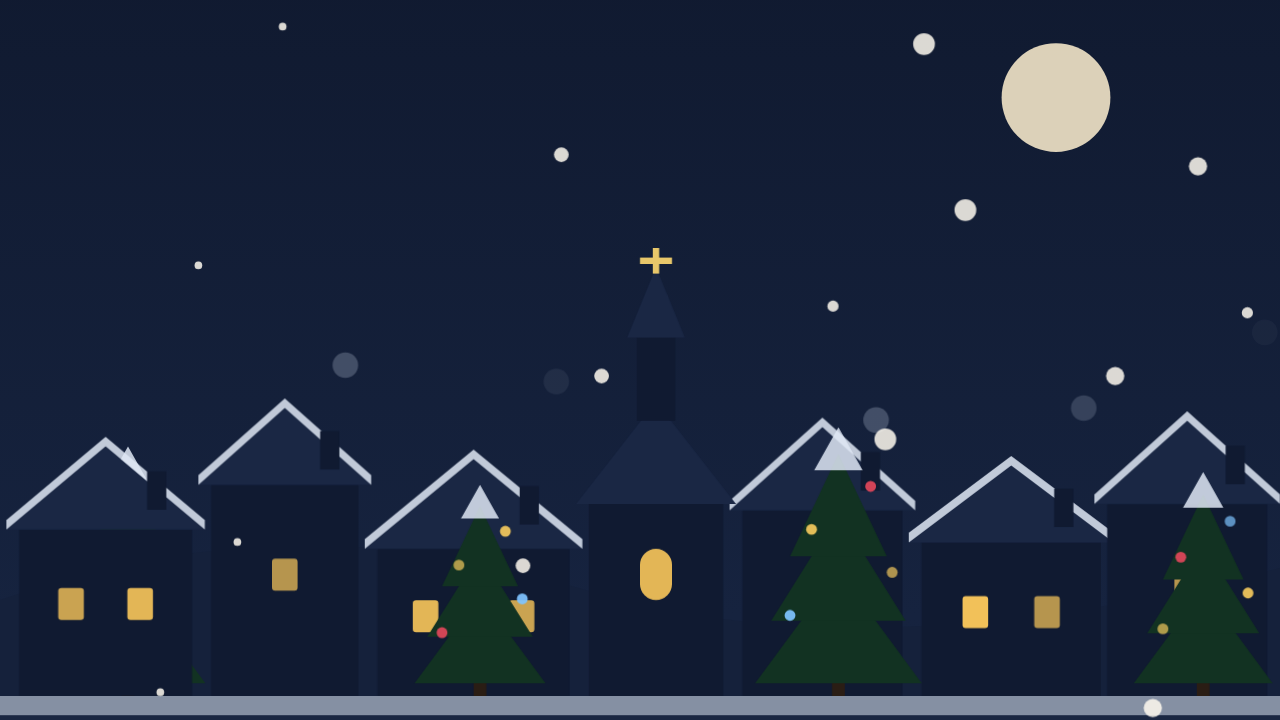
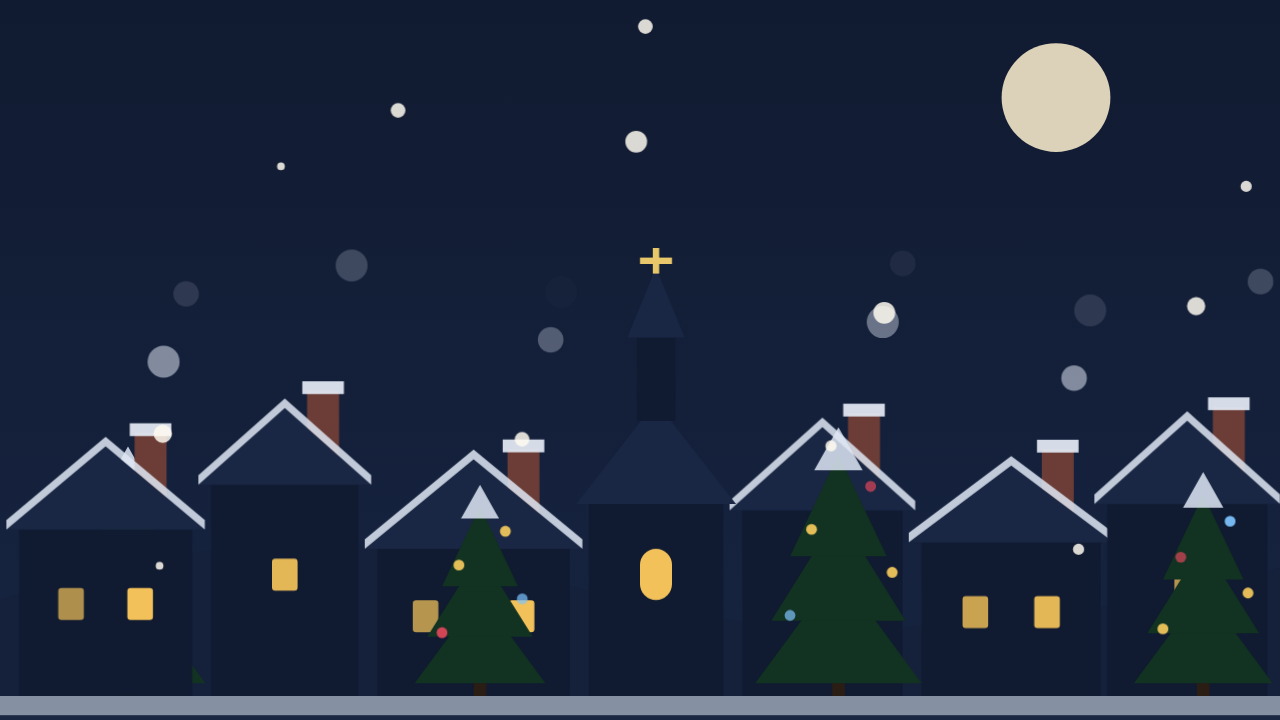
christmas-town-theme 0.1.1: brick chimneys with snow caps and clearer smoke
Claude-Session: https://claude.ai/code/session_019US2gsjfkmf3Eo2ufavub8

diff --git a/plugins/christmas-town-theme/hooks/register.tsx b/plugins/christmas-town-theme/hooks/register.tsx
@@ -49,18 +49,25 @@ const windowsOf = (x: number, w: number, top: number, h: number, offsets: number
     })
     .join('')
 
+const G_TOP = (item: House): number => GROUND - item.h
+
 const house = (item: House, index: number): string => {
-  const top = GROUND - item.h
+  const top = G_TOP(item)
   const mid = item.x + item.w / 2
-  const smokeX = item.x + item.w * 0.74
+  // The chimney stands on the right slope of the roof: its base is hidden behind the roof, its top shows above it.
+  const cx = item.x + item.w * 0.76
+  const slope = top - item.roof * (1 - Math.abs(cx - mid) / (item.w / 2 + 4))
+  const chimneyTop = slope - 16
 
   return [
+    `<rect x="${cx - 5}" y="${chimneyTop}" width="10" height="26" fill="#6b3d36"/>`,
+    `<rect x="${cx - 6.5}" y="${chimneyTop - 3}" width="13" height="4" fill="#e6edf7" opacity=".92"/>`,
     `<rect x="${item.x}" y="${top}" width="${item.w}" height="${item.h}" fill="#101a31"/>`,
     `<path d="M${item.x - 4} ${top} L${mid} ${top - item.roof} L${item.x + item.w + 4} ${top} Z" fill="#1a2744"/>`,
     // The snow on the roof.
     `<path d="M${item.x - 4} ${top} L${mid} ${top - item.roof} L${item.x + item.w + 4} ${top} L${item.x + item.w + 4} ${top - 3} L${mid} ${top - item.roof - 3} L${item.x - 4} ${top - 3} Z" fill="#dfe8f4" opacity=".85"/>`,
-    `<rect x="${smokeX}" y="${top - item.roof * 0.7}" width="6" height="12" fill="#101a31"/>`,
-    `<circle class="sm" cx="${smokeX + 3}" cy="${top - item.roof * 0.7 - 4}" r="4" style="animation-delay:${-((index * 3) % 8)}s"/>`,
+    `<circle class="sm" cx="${cx}" cy="${chimneyTop - 8}" r="5" style="animation-delay:${-((index * 3) % 8)}s"/>`,
+    `<circle class="sm" cx="${cx + 1}" cy="${chimneyTop - 8}" r="4" style="animation-delay:${-((index * 3 + 4) % 8)}s"/>`,
     windowsOf(item.x, item.w, top, item.h, item.windows),
   ].join('')
 }
@@ -126,10 +133,10 @@ const SCENE = [
   '.w{fill:#f4c35a;animation:glow 9s ease-in-out infinite}',
   '@keyframes glow{0%,100%{opacity:.7}50%{opacity:1}}',
   '.l{animation:glow 6s ease-in-out infinite}',
-  '.sm{fill:#c9d4e6;opacity:0;animation:rise 9s ease-out infinite}',
-  '@keyframes rise{0%{opacity:0;transform:translate(0,0)}20%{opacity:.35}100%{opacity:0;transform:translate(10px,-34px)}}',
+  '.sm{fill:#d6deec;opacity:0;animation:rise 9s ease-out infinite}',
+  '@keyframes rise{0%{opacity:0;transform:translate(0,0)}20%{opacity:.6}100%{opacity:0;transform:translate(12px,-42px)}}',
   // Asked to reduce motion, the snow rests at set heights and the windows, lights and smoke stay still.
-  '@media (prefers-reduced-motion:reduce){.f{animation:none;transform:translate(0,var(--y))}.w,.l{animation:none}.sm{animation:none;opacity:.2}}',
+  '@media (prefers-reduced-motion:reduce){.f{animation:none;transform:translate(0,var(--y))}.w,.l{animation:none}.sm{animation:none;opacity:.3}}',
   '</style>',
   '<rect width="400" height="800" fill="url(#sky)"/>',
   '<circle cx="330" cy="318" r="17" fill="#f3e6c8" opacity=".9"/>',

diff --git a/README.es.md b/README.es.md
@@ -44,7 +44,7 @@ Mods bonitas para Claude Code: cambian cómo se ve y qué muestra. Un aspecto na
 | Mod | Qué hace |
 |---|---|
 | `christmas-theme` | Verde pino profundo con texto crema cálido, acentos granate y dorado, una nevada lenta, y Santa con su trineo lleno de regalos envueltos y un reno cruzando el cielo una vez cada 70 segundos. Oscuro. |
-| `christmas-town-theme` | Otro aspecto navideño, con un pueblo: una noche azul medianoche con casas con tejados nevados y sus ventanas encendidas, una iglesia con campanario, pinos con luces de colores, una luna, humo de chimeneas que se eleva despacio y una nevada lenta. Oscuro. Instálalo en lugar de `christmas-theme`, no a la vez. |
+| `christmas-town-theme` | Otro aspecto navideño, con un pueblo: una noche azul medianoche con casas con tejados nevados, chimeneas de ladrillo y sus ventanas encendidas, una iglesia con campanario, pinos con luces de colores, una luna, humo de chimeneas que se eleva despacio y una nevada lenta. Oscuro. Instálalo en lugar de `christmas-theme`, no a la vez. |
 | `christmas-market-theme` | Un mercadillo de Navidad de noche: puestos de madera con tejados nevados y toldos a rayas, guirnaldas de luces de colores, un abeto alto iluminado, una mesa alta con una vela y seis personas con abrigos de invierno comiendo y bebiendo (un salchichón en pan, un pretzel, un crepe, tazas de algo caliente). Los brazos suben despacio hacia la boca y sale vapor de las tazas. Oscuro. Instálalo en lugar de los otros temas navideños, no a la vez. |
 | `christmas-countdown` | Muestra "🎄 N days to Christmas" en la línea de estado, y "🎄 Merry Christmas!" el mismo día. Sigue siendo correcto si dejas una sesión abierta pasada la medianoche. |
 

diff --git a/README.md b/README.md
@@ -44,7 +44,7 @@ Pretty mods for Claude Code: changes to how it looks and what it shows. A Christ
 | Mod | What it does |
 |---|---|
 | `christmas-theme` | Deep pine green with warm cream text, cranberry accents and gold, a slow snowfall, and Santa with his sleigh full of wrapped presents and a reindeer crossing the sky once every 70 seconds. Dark. |
-| `christmas-town-theme` | Another Christmas look, with a town: a midnight-blue night with snow-roofed houses and their lit windows, a church with a steeple, pine trees with coloured lights, a moon, drifting chimney smoke and slow snowfall. Dark. Install it instead of `christmas-theme`, not with it. |
+| `christmas-town-theme` | Another Christmas look, with a town: a midnight-blue night with snow-roofed houses with brick chimneys and their lit windows, a church with a steeple, pine trees with coloured lights, a moon, drifting chimney smoke and slow snowfall. Dark. Install it instead of `christmas-theme`, not with it. |
 | `christmas-market-theme` | A Christmas market at night: wooden stalls with snowy roofs and striped awnings, strings of coloured lights, a tall lit tree, a standing table with a candle, and six people in winter coats eating and drinking (a sausage in a bun, a pretzel, a crepe, mugs of something hot). Their arms lift slowly to their mouths and steam rises from the mugs. Dark. Install it instead of the other Christmas themes, not with them. |
 | `christmas-countdown` | Shows "🎄 N days to Christmas" in the status line, and "🎄 Merry Christmas!" on the day. It stays correct if a session is left open past midnight. |
 
